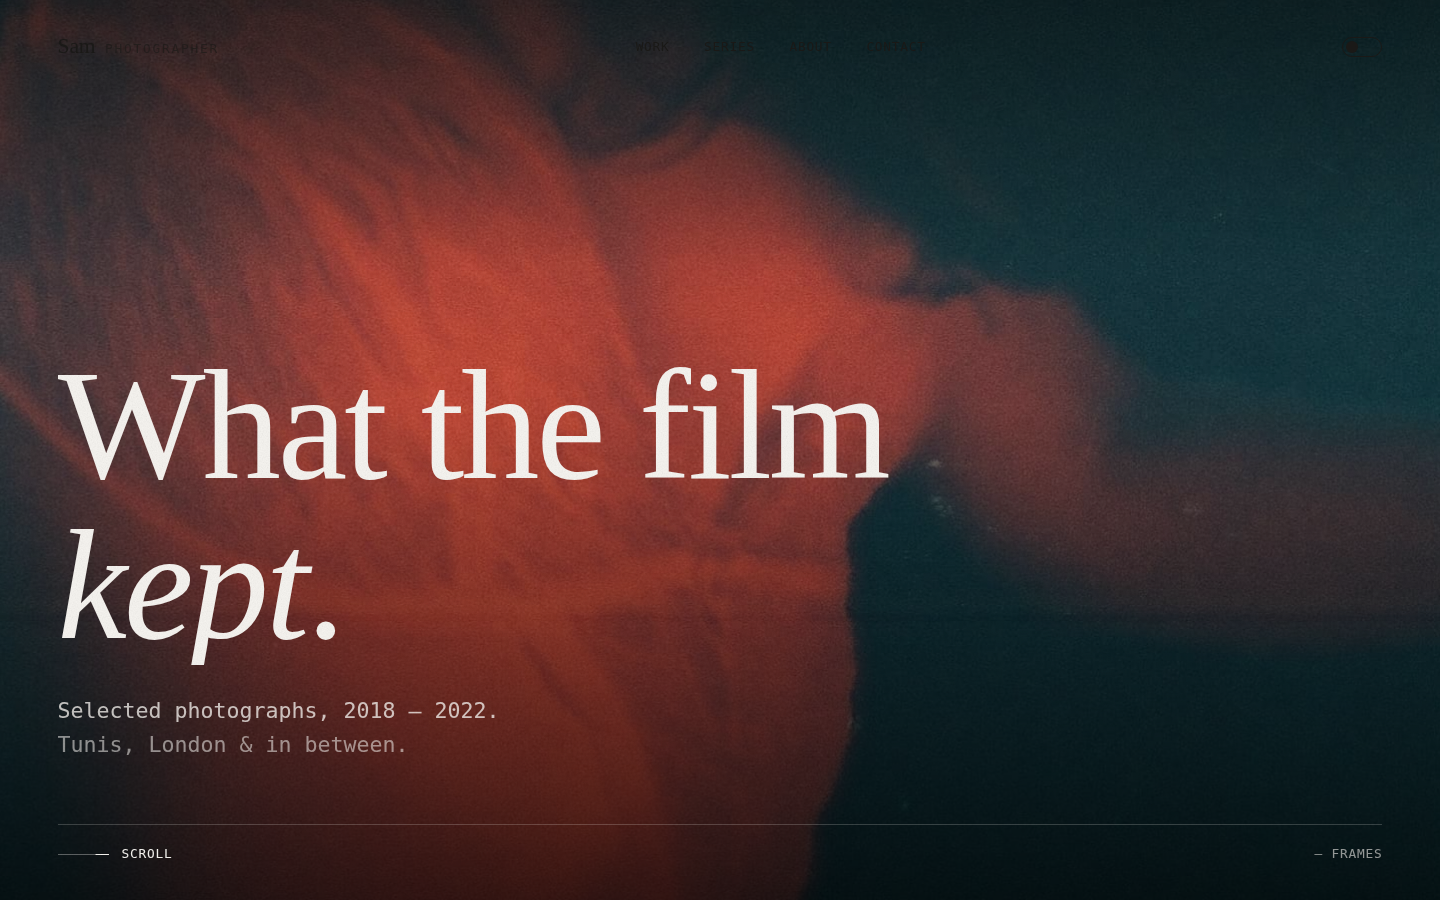
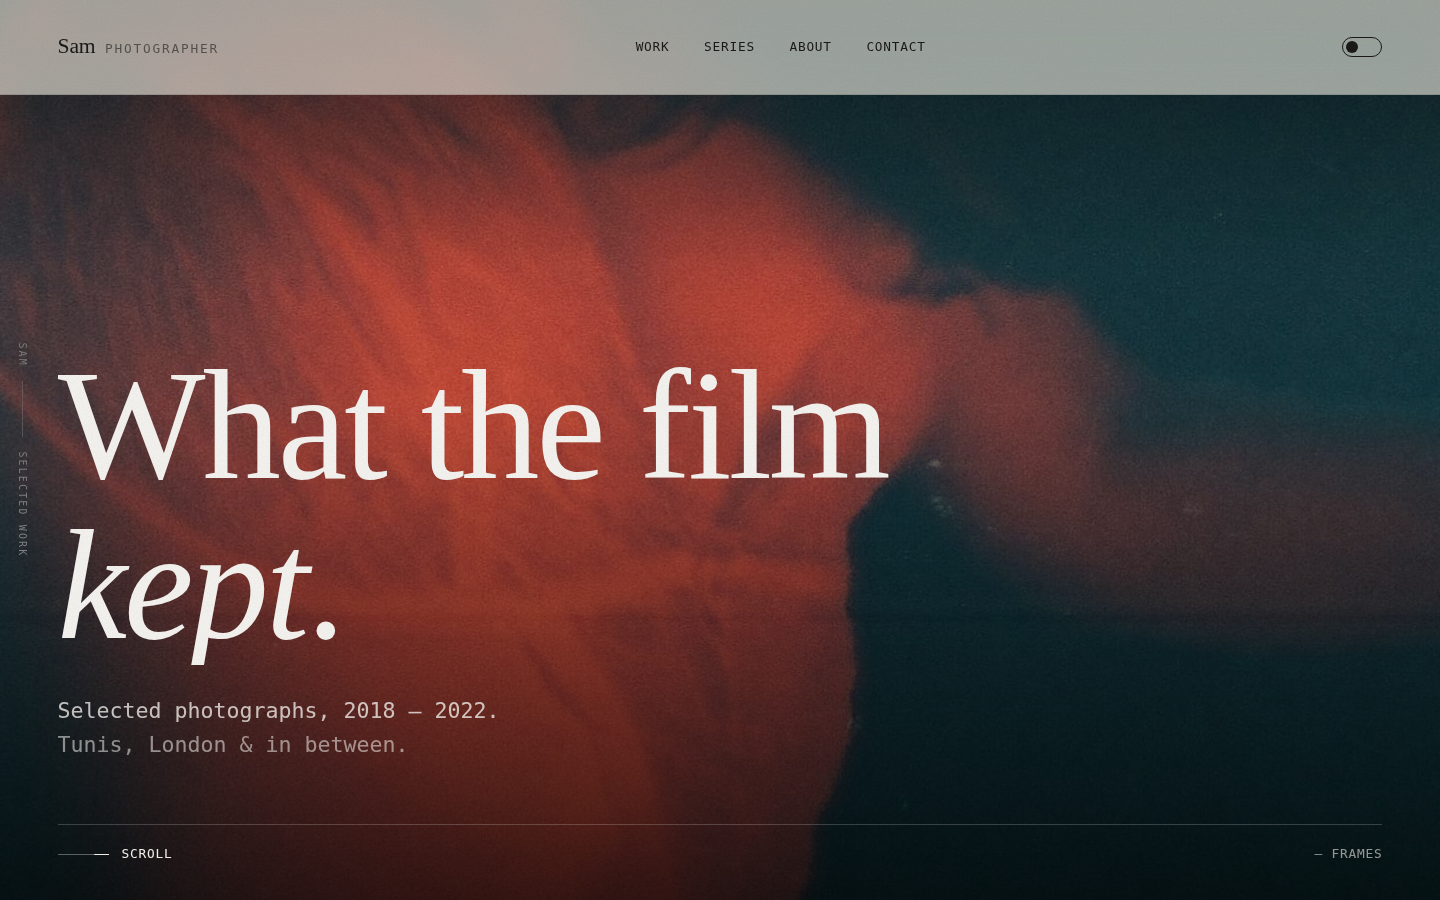
Bring the posters' marks onto the page
Takes the graphic language from the dot posters: a system laid down strictly,
then broken in one place. The break is the subject; the grid exists to be
broken.

- A dot field closes the run of plates. A slanted band through it is lifted
  out and set down again out of register, so the grid faults across the
  middle. Registration ticks sit at its four corners, as a printer would
  leave them.
- Section rules are broken rather than continuous: the rule runs to 61%,
  stops, and resumes shorter and six pixels lower.
- The loading bar is a run of empty dots that fill in as frames arrive,
  rather than a solid line.

Everything is drawn in CSS from radial gradients and pseudo-elements, so it
costs no requests and scales with the type. Marks use the faint token, which
keeps them a shade on the paper rather than something competing with the
photographs.

Verified at 1440 and 390, both themes, reduced motion, and with scripting
off: 30 plates, no overflow.

Claude-Session: https://claude.ai/code/session_019NShiC6QP4jxH9HfdwdP7N

Changed region(s): [[0.0, 0.0, 1.0, 0.1244]]

diff --git a/css/style.css b/css/style.css
@@ -198,16 +198,20 @@ button {
   font-variant-numeric: tabular-nums;
 }
 .loader__bar {
+  position: relative;
   width: min(52vw, 22rem);
-  height: 1px;
-  background: var(--line);
+  height: 7px;
+  /* An empty run of dots that fills in as the frames arrive. */
+  background-image: radial-gradient(var(--faint) 2.6px, transparent 2.7px);
+  background-size: 13px 7px;
   overflow: hidden;
 }
 .loader__bar i {
   display: block;
   height: 100%;
   width: 0;
-  background: var(--ink);
+  background-image: radial-gradient(var(--ink) 2.6px, transparent 2.7px);
+  background-size: 13px 7px;
   transition: width 0.35s var(--ease);
 }
 
@@ -478,6 +482,75 @@ button {
 }
 .opener--centred { justify-items: center; grid-template-columns: auto auto; }
 .opener--centred .opener__note { grid-column: auto; }
+
+/* --- Marks: dots, rules, and the faults in them --------------------------
+   Taken from the posters — a system laid down strictly, then broken in one
+   place. The break is the subject; the grid is only there to be broken. */
+
+.field {
+  position: relative;
+  height: clamp(5rem, 11vh, 8.5rem);
+  margin: clamp(3rem, 8vh, 6rem) 0 0;
+  padding: 0.9rem 0;
+  background-image: radial-gradient(var(--faint) 1.9px, transparent 2px);
+  background-size: var(--dot, 15px) var(--dot, 15px);
+  background-origin: content-box;
+  background-clip: content-box;
+  color: var(--faint);
+}
+/* The fault: a slanted band where the grid is lifted out... */
+.field::before,
+.field::after {
+  content: '';
+  position: absolute;
+  inset: 0.9rem 0;
+  clip-path: polygon(0 34%, 100% 24%, 100% 58%, 0 68%);
+}
+.field::before { background: var(--bg); }
+/* ...and set down again out of register. */
+.field::after {
+  background-image: radial-gradient(var(--faint) 1.9px, transparent 2px);
+  background-size: var(--dot, 15px) var(--dot, 15px);
+  background-position: calc(var(--dot, 15px) / 2) calc(var(--dot, 15px) / 3);
+}
+
+/* A rule that stops short, then resumes a few pixels lower. */
+.opener {
+  position: relative;
+  border-top: 0;
+}
+.opener::before,
+.opener::after {
+  content: '';
+  position: absolute;
+  height: 2px;
+  background: var(--ink);
+}
+.opener::before { top: 0; left: 0; width: 61%; }
+.opener::after { top: 6px; right: 0; width: 27%; }
+.opener--centred::before { width: 38%; }
+.opener--centred::after { width: 38%; }
+
+/* Registration ticks, as a printer would leave them. */
+.tick {
+  position: absolute;
+  width: 9px;
+  height: 9px;
+  opacity: 0.5;
+  pointer-events: none;
+}
+.tick::before,
+.tick::after {
+  content: '';
+  position: absolute;
+  background: currentColor;
+}
+.tick::before { left: 50%; top: 0; width: 1px; height: 100%; }
+.tick::after { top: 50%; left: 0; height: 1px; width: 100%; }
+.tick--tl { top: 0; left: 0; }
+.tick--tr { top: 0; right: 0; }
+.tick--bl { bottom: 0; left: 0; }
+.tick--br { bottom: 0; right: 0; }
 
 /* --- Page furniture ------------------------------------------------------ */
 .rail {

diff --git a/index.html b/index.html
@@ -1013,6 +1013,11 @@
     </div>
 
     <p class="grid__empty" id="gridEmpty" hidden>Nothing in this series yet.</p>
+
+    <div class="field" aria-hidden="true">
+      <i class="tick tick--tl"></i><i class="tick tick--tr"></i>
+      <i class="tick tick--bl"></i><i class="tick tick--br"></i>
+    </div>
   </section>
 
   <!-- ── Series index ─────────────────────────────────────────────────── -->
